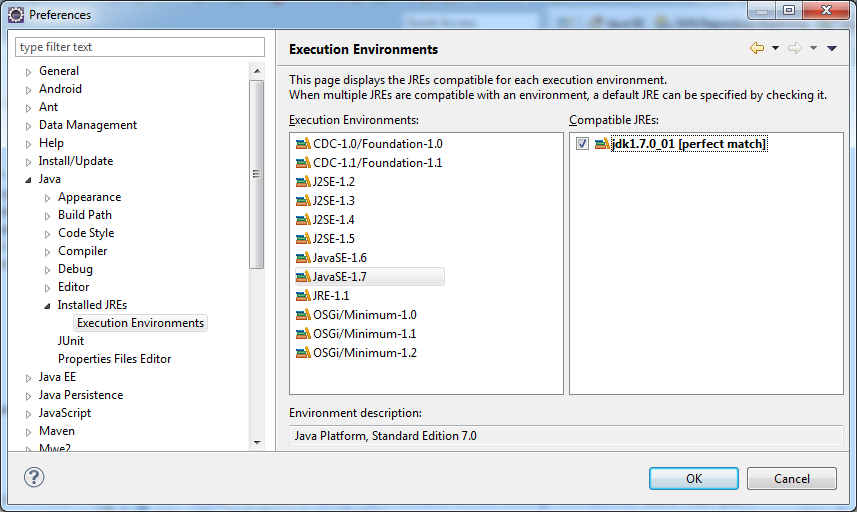
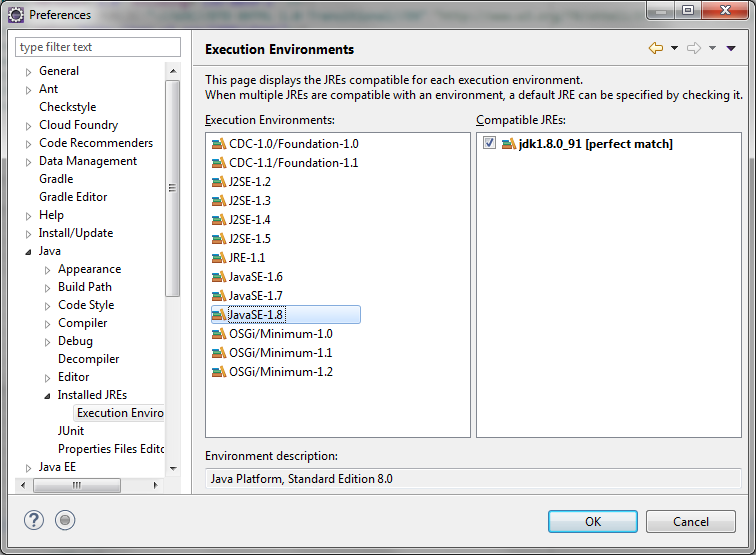
some project cleanup, mostly in the latex documentation projects

Changed region(s): [[0.0, 0.0, 1.0, 1.0]]

diff --git a/howtobuild/howtobuild.tex b/howtobuild/howtobuild.tex
@@ -60,10 +60,11 @@ JTAPI~\cite{sun:jsapi}.
 
 VoiceXML is hosted at SourceForge~\cite{sourceforge} as an open source project.
 You find everything that is related to this project under
-\url{http://sourceforge.net/projects/jvoicexml/}.
+\url{http://sourceforge.net/projects/jvoicexml/}. The code hase been made available at
+GitHub at \url{https://github.com/JVoiceXML/JVoiceXML}.
 
 This document refers to UNIX and Windows systems. JVoiceXML will work 
-any other operating systems that support Java 7, too.
+any other operating systems that support Java 8, too.
 
 Nobody is perfect, so you may find some errors or small things to correct.
 Please let me know if you think you found something that should be written
@@ -75,16 +76,11 @@ differently.
 JVoiceXML uses the GNU library general public license~\cite{gnu:lgpg}. 
 This is mentioned in all our source files as a unique header, see
 section~\ref{sec:code-conventions}.
-You can find a copy in the file COPYING in the \$\{JVOICEXML\_HOME\}
+You can find a copy in the file \texttt{doc/copying.xhtml} in the \$\{JVOICEXML\_HOME\}
 directory. This means that you are allowed to use JVoiceXML
 library in your commercial programs. If you make some nice
-enhancements it would be great, if you could send us your
-modifications so that we can make it available to the public.
-
-JVoiceXML is free software; you can redistribute it and/or
-modify it under the terms of the GNU Library General Public
-License as published by the Free Software Foundation; either
-version 2 of the License, or (at your option) any later version.
+enhancements it would be great, if you could share them
+with us, e.g. by a pull request, so that we can make it available to the community.
 
 JVoiceXML is distributed in the hope that it will be useful,
 but WITHOUT ANY WARRANTY; without even the implied warranty of
@@ -157,7 +153,7 @@ comparable repository or from their home pages. The file
 \subsection{IDE}
 \label{sec:ide}
 
-JVoiceXML is being developed using eclipse 4.4, but you can use the IDE of your
+JVoiceXML is being developed using eclipse 4.6, but you can use the IDE of your
 choice to edit the sources and compile the binaries. You can even use a simple
 text editor to perform this job. Nevertheless there are some restriction that
 you cannot work around.
@@ -166,14 +162,14 @@ Your IDE must support
 
 \begin{itemize}
 \item JavaSE 7
-\item ANT 1.7
+\item Gradle
 \end{itemize}
 
 \subsection{JAVA}
 \label{sec:java}
 
-Parts of the code of JVoiceXML are using features from the JAVA 7 API, so that
-you will need at least J2SE 7 to compile the code. You can download it
+Parts of the code of JVoiceXML are using features from the JAVA 8 API, so that
+you will need at least JSE 8 to compile the code. You can download it
 for free from \url{http://oracle.com/technetwork/java/javase/downloads/index.html}.
 
 In case you are using another IDE, you will have to manually adapt
@@ -185,20 +181,20 @@ libraries are listed in \lstinline{JVOICEXML_HOME/doc/libraries.xhtml}.
 \label{sec:eclipse}
 
 If you are not using eclipse as your favorite IDE, you may ignore this section.
-We are using the \emph{Eclipse IDE for Java EE Developers} version 4.4 (Luna))
+We are using the \emph{Eclipse IDE for Java EE Developers} version 4.6 (Neon))
 for the development of JVoiceXML. The subversion repository contains the eclipse
 project settings. This way, you there is no need to import the
 project into eclipse. The project settings will be detected 
 automatically when you checkout the projects. However you are requested to configure the execution
-environment development for Java 7 \emph{JavaSE-1.7} to point to a valid JDK.
+environment development for Java 8 \emph{JavaSE-1.8} to point to a valid JDK.
 The use of execution environments makes the development independent of the
-used version of the Java 7 SDK.
+used version of the Java 8 SDK.
 
 A screenshot for a possible configuration is shown in
 figure~\ref{fig:eclipse-execution-environments}.
 \begin{figure}
 \includegraphics[width=\linewidth]{eclipse-execution-environments}
-\caption{Configuration of the Java 7 Execution Environment in eclipse}
+\caption{Configuration of the Java 8 Execution Environment in eclipse}
 \label{fig:eclipse-execution-environments}
 \end{figure}
 
@@ -215,6 +211,7 @@ Software Update mechanism.
 Below is a list of the required update URLs.
 
 \begin{description}
+\item[Buildship] \url{https://projects.eclipse.org/projects/tools.buildship}
 \item[Checkstyle] \url{http://eclipse-cs.sourceforge.net/update} (Note that you
 only need the 5.x version)
 \item[TeXlipse] \url{http://texlipse.sourceforge.net} (optional if you want to
@@ -224,23 +221,25 @@ edit the documentation)
 \texttt{org.jvoicexml.mmi.events} or \texttt{org.jvoicexml.client.text})
 \end{description}
 
-\subsection{ANT}
-\label{sec:ant}
+However, the preferred way to install the plugins is via the eclipse market place.
 
-JVoiceXML is being built by an ANT build file It is recommended that
-you use at least ANT 1.7.0. 
-If you don't have ANT installed, you can download the current release
-from \url{http://ant.apache.org}. This should not be necessary if ANT is builtin
-your IDE as it is the case with eclipse.
+\subsection{Gradle}
+\label{sec:gradle}
+
+JVoiceXML is being built by Gradle. It is recommended that
+you use at least Gradle 3.0. 
+If you don't have Gradle installed, you can download the current release
+from \url{http://www.gradle.org}. This should not be necessary if Gradle is builtin
+your IDE.
 
 The build file allows you to override the settings by using a custom 
-properties file jvoicexml.properties in the \$\{JVOICEXML\_HOME\}
+properties file \texttt{gradle.properties} in the \texttt{\$\{HOME\}/.gradle}
 directory.
 
-Since almost all IDEs feature an ANT integration, it will be possible to use
-your favorite IDE. However, it might take you some manual effort to add all the needed libraries.
+Since almost all IDEs feature support for Gradle, at least with the help of plugins, it will be possible to
+use your favorite IDE.
 
-\subsubsection{ANT Support for Eclipse}
+\subsubsection{Gradle Support for Eclipse}
 \label{sec:ant-eclipse}
 
 The ANT project files are usually named \texttt{build.xml} and reside in

diff --git a/userguide/userguide.tex b/userguide/userguide.tex
@@ -2110,8 +2110,8 @@ platforms can be activated, ,iven that all referenced jars can be found.
 \section{JSAPI 2.0 with Microsoft SAPI}
 \lstinputlisting[language=XML]{../org.jvoicexml.implementation.jsapi20/src/main/resources/jsapi20-sapi-implementation.xml}
 
-%\section{JTAPI}
-%\lstinputlisting[language=XML]{../org.jvoicexml.implementation.jtapi/src/main/resources/jtapi-implementation.xml}
+\section{JTAPI}
+\lstinputlisting[language=XML]{../org.jvoicexml.implementation.jtapi/src/main/config/jtapi-implementation.xml}
 
 \section{MARC}
 \lstinputlisting[language=XML]{../org.jvoicexml.implementation.marc/src/main/resources/marc-implementation.xml}
